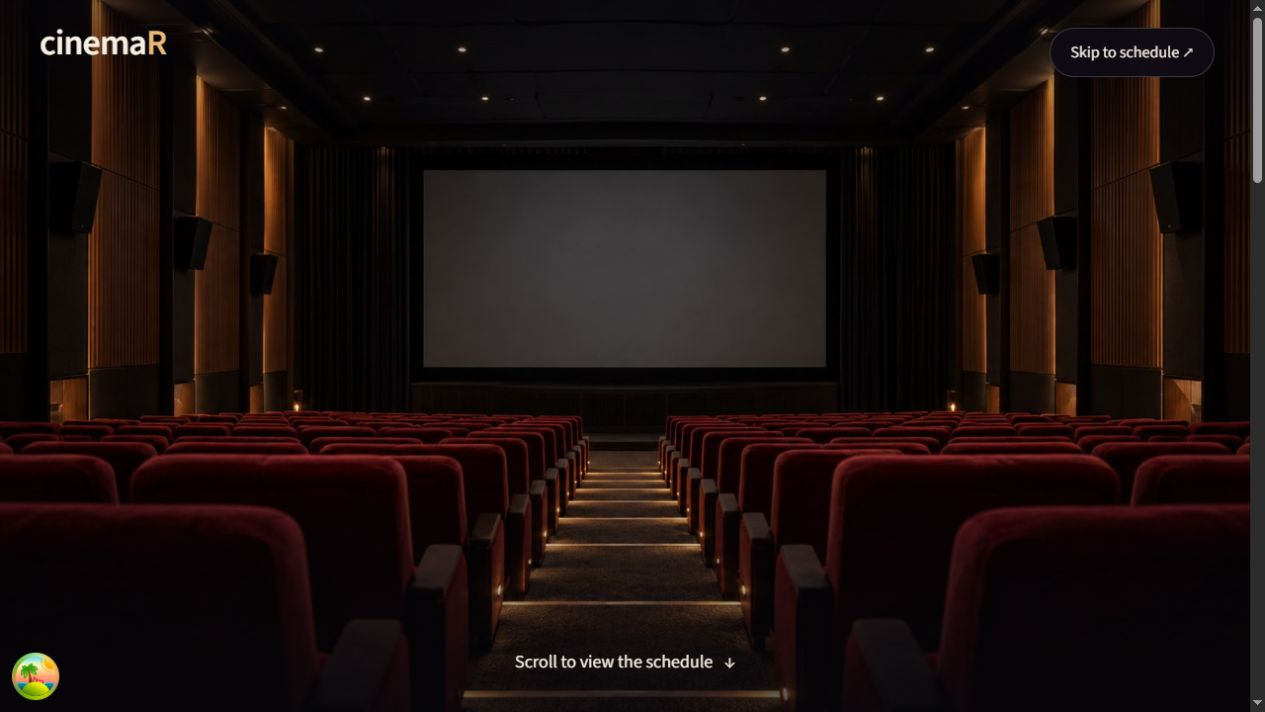
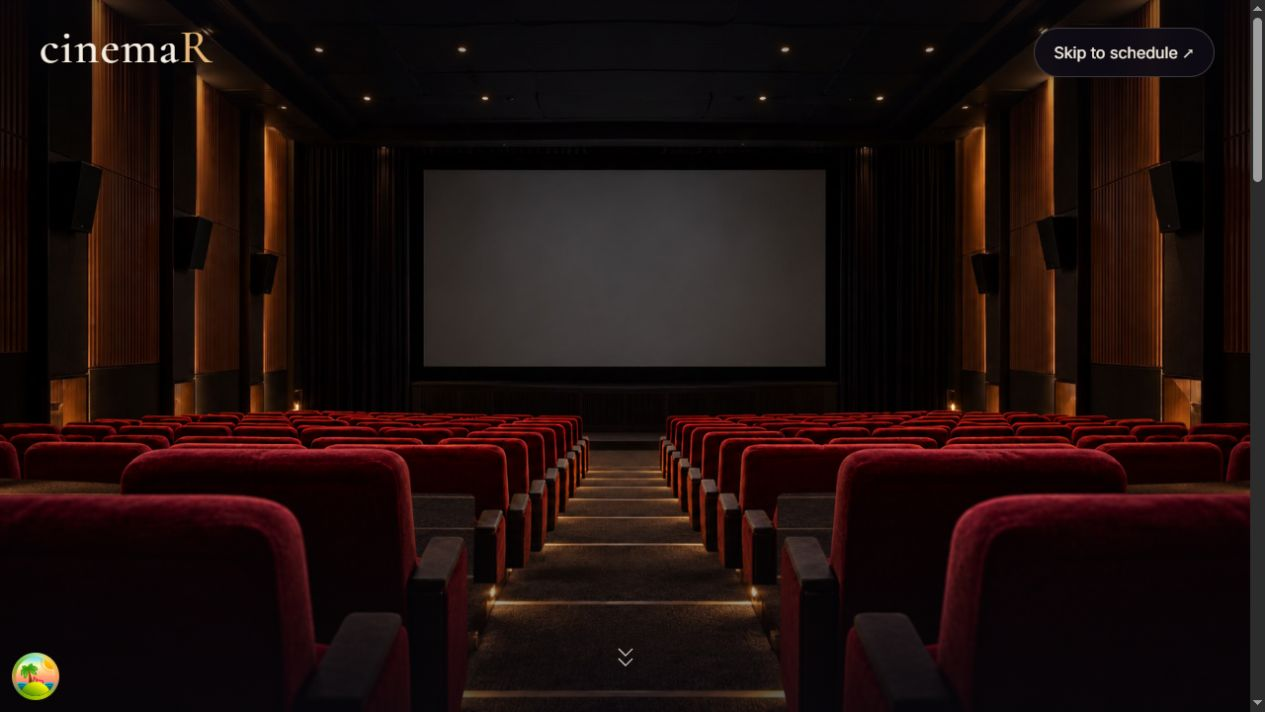
More visual fixes;

diff --git a/src/frontend/src/features/schedule/SchedulePage.tsx b/src/frontend/src/features/schedule/SchedulePage.tsx
@@ -7,36 +7,39 @@ import { Button } from '../../shared/ui/Button';
 import { StatusMessage } from '../../shared/ui/StatusMessage';
 import { DatePicker } from './components/DatePicker';
 import { getDemoShowtimes, getScheduleDates } from './model/demoSchedule';
+import type { ScheduleMotionSession } from './model/scheduleMotion';
+import { useScheduleMotion } from './useScheduleMotion';
 
-export function SchedulePage({ preview = false }: { preview?: boolean }) {
+export function SchedulePage({ preview = false, motion }: { preview?: boolean; motion: ScheduleMotionSession }) {
   const [dates] = useState(() => getScheduleDates());
   const [selectedIndex, setSelectedIndex] = useState(0);
   const moviesQuery = useQuery(movieQueries.list());
   const movies = moviesQuery.data;
   const selectedDate = dates[selectedIndex];
+  const rootRef = useScheduleMotion(motion, preview, selectedDate.key);
 
   return (
-    <div className={theme.page}>
+    <div ref={rootRef} className={theme.page}>
       <div className={theme.container}>
-        <header className={theme.header}>
+        <header className={theme.header} data-schedule-enter="header">
           <Link to="/" className={theme.brand} aria-label="Back to the auditorium">cinema<span className={theme.accent}>R</span></Link>
           <span className={theme.demoBadge}>DEMO SCHEDULE</span>
         </header>
 
         <div className={theme.intro}>
-          <div>
+          <div data-schedule-enter="title">
             <p className={theme.eyebrow}>MOVIES & SHOWTIMES</p>
             {preview ? <h2 className={theme.heading}>Movie schedule</h2> : <h1 className={theme.heading}>Movie schedule</h1>}
             <p className={theme.description}>Choose a date to see the movies and sample showtimes.</p>
           </div>
-          <Button onClick={() => void moviesQuery.refetch()} disabled={moviesQuery.isFetching || moviesQuery.isPaused}>
+          <div data-schedule-enter="action"><Button onClick={() => void moviesQuery.refetch()} disabled={moviesQuery.isFetching || moviesQuery.isPaused}>
             {moviesQuery.isPaused ? 'Offline' : moviesQuery.isFetching ? 'Refreshing…' : 'Refresh movies'} <span aria-hidden="true">↻</span>
-          </Button>
+          </Button></div>
         </div>
 
         <DatePicker dates={dates} selectedIndex={selectedIndex} onSelect={setSelectedIndex} />
-        <p className={theme.dateNote}>Sample showtimes only · All times are local to Kyiv · Booking is coming later.</p>
-        <p className={theme.selectedDate} aria-live="polite">Showing demo times for {selectedDate.fullLabel}</p>
+        <p className={theme.dateNote} data-schedule-enter="note">Sample showtimes only · All times are local to Kyiv · Booking is coming later.</p>
+        <p className={theme.selectedDate} data-schedule-enter="selectedDate" aria-live="polite">Showing demo times for {selectedDate.fullLabel}</p>
 
         <div className={theme.results}>
           {movies === undefined && moviesQuery.isPending && (
@@ -66,17 +69,17 @@ export function SchedulePage({ preview = false }: { preview?: boolean }) {
                     const presentation = getMoviePresentation(movie.title);
                     const showtimes = getDemoShowtimes(index, selectedIndex);
                     return (
-                      <li key={movie.id} className={theme.movieRow}>
-                        <div className={theme.poster}><MovieArtwork title={movie.title} showTitle={false} /></div>
-                        <div>
+                      <li key={movie.id} className={theme.movieRow} data-schedule-enter="row" data-schedule-key={`row:${movie.id}`} data-schedule-order={index}>
+                        <div className={theme.poster} data-schedule-enter="poster" data-schedule-key={`poster:${movie.id}`} data-schedule-order={index}><MovieArtwork title={movie.title} showTitle={false} /></div>
+                        <div data-schedule-enter="details" data-schedule-key={`details:${movie.id}`} data-schedule-order={index}>
                           <p className={theme.category}>{presentation.category}</p>
                           <h3 className={theme.movieTitle}>{movie.title}</h3>
                           <p className={theme.metadata}>{movie.durationMinutes} min <span className={theme.separator}>/</span> {showtimes.auditorium}</p>
                           <p className={theme.synopsis}>{presentation.note}</p>
                         </div>
-                        <div>
+                        <div data-schedule-enter="times" data-schedule-key={`times:${movie.id}`} data-schedule-order={index}>
                           <p className={theme.timesLabel}>SAMPLE SHOWTIMES</p>
-                          <ul className={theme.times} aria-label={`Demo showtimes for ${movie.title}`}>
+                          <ul className={theme.times} data-showtimes aria-label={`Demo showtimes for ${movie.title}`}>
                             {showtimes.times.map((time) => <li key={time}><time className={theme.time} dateTime={`${selectedDate.key}T${time}`}>{time}</time></li>)}
                           </ul>
                         </div>
@@ -91,7 +94,7 @@ export function SchedulePage({ preview = false }: { preview?: boolean }) {
 
       </div>
       <footer className={theme.footer}>
-        <div className={theme.footerDetails}><span className={theme.footerBrand}>cinemaR</span><span className={theme.footerLabel}>MOVIES & SHOWTIMES</span></div>
+        <div className={theme.footerDetails} data-schedule-enter="footer"><span className={theme.footerBrand}>cinemaR</span><span className={theme.footerLabel}>MOVIES & SHOWTIMES</span></div>
       </footer>
     </div>
   );

diff --git a/src/frontend/src/features/schedule/useScheduleMotion.ts b/src/frontend/src/features/schedule/useScheduleMotion.ts
@@ -1,0 +1,92 @@
+import { useLayoutEffect, useRef } from 'react';
+import { scheduleMotionTheme } from './SchedulePage.theme';
+import type { ScheduleMotionSession } from './model/scheduleMotion';
+
+export function useScheduleMotion(session: ScheduleMotionSession, preview: boolean, selectedDate: string) {
+  const rootRef = useRef<HTMLDivElement>(null);
+  const previousDate = useRef(selectedDate);
+
+  useLayoutEffect(() => {
+    const root = rootRef.current;
+    if (!root) return;
+    const reducedMotion = matchMedia('(prefers-reduced-motion: reduce)');
+    const animations = new Map<HTMLElement, { animation: Animation; key: string; delay: number; duration: number }>();
+
+    function sync() {
+      for (const { animation, key, delay, duration } of animations.values()) {
+        const start = session.startFor(key, delay);
+        if (reducedMotion.matches) {
+          animation.cancel();
+        } else if (start === null) {
+          animation.pause();
+          animation.currentTime = 0;
+        } else if (performance.now() - start >= duration) {
+          animation.cancel();
+        } else {
+          // The same scheduled timestamp is used after the route remount.
+          animation.play();
+          animation.startTime = start;
+        }
+      }
+    }
+
+    function register() {
+      for (const [element, record] of animations) {
+        if (!root!.contains(element)) {
+          record.animation.cancel();
+          animations.delete(element);
+        }
+      }
+      root!.querySelectorAll<HTMLElement>('[data-schedule-enter]').forEach((element) => {
+        if (animations.has(element)) return;
+        const kind = element.dataset.scheduleEnter as keyof typeof scheduleMotionTheme;
+        const definition = scheduleMotionTheme[kind];
+        if (!definition) return;
+        const order = Number(element.dataset.scheduleOrder ?? 0);
+        const animation = element.animate(definition.frames, {
+          duration: definition.duration,
+          easing: 'cubic-bezier(0.22, 1, 0.36, 1)',
+          fill: 'backwards',
+        });
+        animation.pause();
+        animation.currentTime = 0;
+        animations.set(element, {
+          animation,
+          key: element.dataset.scheduleKey ?? kind,
+          delay: definition.delay + Math.min(order, 6) * definition.stagger,
+          duration: definition.duration,
+        });
+      });
+      sync();
+    }
+
+    if (!preview) session.start();
+    register();
+    const unsubscribe = session.subscribe(sync);
+    const observer = new MutationObserver(register);
+    observer.observe(root, { childList: true, subtree: true });
+    reducedMotion.addEventListener('change', sync);
+
+    return () => {
+      observer.disconnect();
+      unsubscribe();
+      reducedMotion.removeEventListener('change', sync);
+      animations.forEach(({ animation }) => animation.cancel());
+    };
+  }, [session, preview]);
+
+  useLayoutEffect(() => {
+    if (previousDate.current === selectedDate) return;
+    previousDate.current = selectedDate;
+    if (matchMedia('(prefers-reduced-motion: reduce)').matches) return;
+    const animations = Array.from(rootRef.current?.querySelectorAll('[data-showtimes]') ?? []).map((element) =>
+      element.animate([
+        { opacity: 0.35, transform: 'translateY(4px)' },
+        { opacity: 1, transform: 'translateY(0)' },
+      ], { duration: 220, easing: 'ease-out' }),
+    );
+    return () => animations.forEach((animation) => animation.cancel());
+  }, [selectedDate]);
+
+  return rootRef;
+}

diff --git a/src/frontend/src/app/App.tsx b/src/frontend/src/app/App.tsx
@@ -1,13 +1,14 @@
 import { appTheme as theme } from './App.theme';
-import { useCallback, useLayoutEffect, useRef } from 'react';
+import { useCallback, useLayoutEffect, useRef, useState } from 'react';
 import { Link, Route, Routes, useLocation, useNavigate } from 'react-router-dom';
 import { CinemaEntrance } from '../features/cinema-entrance';
-import { SchedulePage } from '../features/schedule';
+import { SchedulePage, createScheduleMotionSession } from '../features/schedule';
 
 export function App() {
   const location = useLocation();
   const mainRef = useRef<HTMLElement>(null);
   const navigate = useNavigate();
+  const [scheduleMotion] = useState(createScheduleMotionSession);
   const handoffOffset = useRef<number | null>(null);
   const completeEntrance = useCallback((offset: number) => {
     handoffOffset.current = offset;
@@ -21,19 +22,20 @@ export function App() {
   }, []);
 
   useLayoutEffect(() => {
+    if (location.pathname === '/') scheduleMotion.reset();
     // The preview may already have scrolled above the viewport during damping.
     // Consume its offset before paint instead of snapping the schedule to zero.
     window.scrollTo({ top: handoffOffset.current ?? 0, behavior: 'instant' });
     handoffOffset.current = null;
     mainRef.current?.focus({ preventScroll: true });
     document.title = location.pathname === '/schedule' ? 'Movie schedule · cinemaR' : 'cinemaR';
-  }, [location.key, location.pathname]);
+  }, [location.key, location.pathname, scheduleMotion]);
 
   return (
     <main ref={mainRef} tabIndex={-1} className={theme.main}>
       <Routes>
-        <Route path="/" element={<CinemaEntrance onComplete={completeEntrance}><SchedulePage preview /></CinemaEntrance>} />
-        <Route path="/schedule" element={<SchedulePage />} />
+        <Route path="/" element={<CinemaEntrance onComplete={completeEntrance} onScheduleReveal={scheduleMotion.start}><SchedulePage preview motion={scheduleMotion} /></CinemaEntrance>} />
+        <Route path="/schedule" element={<SchedulePage motion={scheduleMotion} />} />
         <Route path="*" element={<div className={theme.notFound}><h1 className={theme.heading}>Page not found</h1><Link className={theme.link} to="/schedule">View schedule</Link></div>} />
       </Routes>
     </main>

diff --git a/src/frontend/src/features/cinema-entrance/useCinemaJourney.ts b/src/frontend/src/features/cinema-entrance/useCinemaJourney.ts
@@ -3,7 +3,7 @@ import { getJourneyGeometry, getScheduleScrollOffset } from './journeyGeometry';
 
 const clamp = (value: number) => Math.min(1, Math.max(0, value));
 
-export function useCinemaJourney(onComplete: (scrollOffset: number) => void) {
+export function useCinemaJourney(onComplete: (scrollOffset: number) => void, onScheduleReveal: () => void) {
   const rootRef = useRef<HTMLDivElement>(null);
   const journeyRef = useRef<HTMLDivElement>(null);
   const stageRef = useRef<HTMLDivElement>(null);
@@ -22,6 +22,7 @@ export function useCinemaJourney(onComplete: (scrollOffset: number) => void) {
     let progress = 0;
     let target = 0;
     let completed = false;
+    let revealed = false;
 
     function update(time: number) {
       frame = 0;
@@ -35,6 +36,10 @@ export function useCinemaJourney(onComplete: (scrollOffset: number) => void) {
       const camera = clamp(progress / 0.84);
       const travel = camera * camera * (3 - 2 * camera);
       const reveal = clamp((progress - 0.88) / 0.12);
+      if (reveal > 0 && !revealed) {
+        revealed = true;
+        onScheduleReveal();
+      }
       root.style.setProperty('--travel', String(travel));
       root.style.setProperty('--schedule-opacity', String(reducedMotion.matches ? 1 : reveal * reveal * (3 - 2 * reveal)));
       root.style.setProperty('--entrance-hint', String(clamp(1 - progress * 5)));
@@ -61,6 +66,10 @@ export function useCinemaJourney(onComplete: (scrollOffset: number) => void) {
         root.style.setProperty('--schedule-opacity', '1');
         schedule.inert = false;
         schedule.removeAttribute('aria-hidden');
+        if (!revealed && schedule.getBoundingClientRect().top < stage.offsetHeight) {
+          revealed = true;
+          onScheduleReveal();
+        }
         if (-top >= journey.offsetHeight - 1) {
           completed = true;
           onComplete(getScheduleScrollOffset(schedule.getBoundingClientRect().top));
@@ -105,7 +114,7 @@ export function useCinemaJourney(onComplete: (scrollOffset: number) => void) {
       removeEventListener('pageshow', resize);
       reducedMotion.removeEventListener('change', measure);
     };
-  }, [onComplete]);
+  }, [onComplete, onScheduleReveal]);
 
   return { rootRef, journeyRef, stageRef, scheduleRef };
 }

diff --git a/src/frontend/src/features/schedule/SchedulePage.theme.ts b/src/frontend/src/features/schedule/SchedulePage.theme.ts
@@ -29,3 +29,20 @@ export const schedulePageTheme = {
   footerBrand: "rounded-md bg-lobby/90 px-3 py-2 font-display text-3xl font-medium",
   footerLabel: "rounded-md bg-lobby/90 px-3 py-2 text-sm font-medium tracking-wider text-amber-light",
 };
+
+// Keep motion with component presentation. Only opacity and transforms animate.
+const fade: Keyframe[] = [{ opacity: 0 }, { opacity: 1 }];
+const rise: Keyframe[] = [{ opacity: 0, transform: 'translateY(12px)' }, { opacity: 1, transform: 'translateY(0)' }];
+export const scheduleMotionTheme = {
+  header: { frames: fade, duration: 340, delay: 0, stagger: 0 },
+  title: { frames: rise, duration: 460, delay: 60, stagger: 0 },
+  action: { frames: fade, duration: 360, delay: 120, stagger: 0 },
+  date: { frames: rise, duration: 350, delay: 140, stagger: 35 },
+  note: { frames: fade, duration: 300, delay: 250, stagger: 0 },
+  selectedDate: { frames: fade, duration: 300, delay: 280, stagger: 0 },
+  row: { frames: rise, duration: 420, delay: 320, stagger: 65 },
+  poster: { frames: [{ opacity: 0, transform: 'scale(0.96)' }, { opacity: 1, transform: 'scale(1)' }], duration: 520, delay: 350, stagger: 65 },
+  details: { frames: [{ opacity: 0, transform: 'translateX(6px)' }, { opacity: 1, transform: 'translateX(0)' }], duration: 400, delay: 370, stagger: 65 },
+  times: { frames: fade, duration: 360, delay: 400, stagger: 65 },
+  footer: { frames: fade, duration: 450, delay: 560, stagger: 0 },
+};

diff --git a/src/frontend/src/features/schedule/components/DatePicker.tsx b/src/frontend/src/features/schedule/components/DatePicker.tsx
@@ -11,7 +11,7 @@ export function DatePicker({ dates, selectedIndex, onSelect }: DatePickerProps) 
   return (
     <div className={theme.group} role="group" aria-label="Choose schedule date">
       {dates.map((date, index) => (
-        <button key={date.key} type="button" aria-label={date.fullLabel} aria-pressed={selectedIndex === index} onClick={() => onSelect(index)} className={`${theme.day} ${selectedIndex === index ? theme.selected : theme.idle}`}>
+        <button key={date.key} type="button" aria-label={date.fullLabel} aria-pressed={selectedIndex === index} onClick={() => onSelect(index)} data-schedule-enter="date" data-schedule-key={`date:${date.key}`} data-schedule-order={index} className={`${theme.day} ${selectedIndex === index ? theme.selected : theme.idle}`}>
           <span className={theme.weekday}>{date.weekday}</span>
           <span className={theme.dayNumber}>{date.day}</span>
           <span className={theme.month}>{date.month}</span>

diff --git a/src/frontend/src/features/schedule/model/scheduleMotion.ts b/src/frontend/src/features/schedule/model/scheduleMotion.ts
@@ -1,0 +1,29 @@
+export function createScheduleMotionSession(now = () => performance.now()) {
+  let openedAt: number | null = null;
+  const starts = new Map<string, number>();
+  const listeners = new Set<() => void>();
+
+  return {
+    start() {
+      if (openedAt !== null) return;
+      openedAt = now();
+      listeners.forEach((listener) => listener());
+    },
+    reset() {
+      openedAt = null;
+      starts.clear();
+      listeners.forEach((listener) => listener());
+    },
+    startFor(key: string, delay: number) {
+      if (openedAt === null) return null;
+      if (!starts.has(key)) starts.set(key, Math.max(openedAt + delay, now()));
+      return starts.get(key)!;
+    },
+    subscribe(listener: () => void) {
+      listeners.add(listener);
+      return () => { listeners.delete(listener); };
+    },
+  };
+}
+
+export type ScheduleMotionSession = ReturnType<typeof createScheduleMotionSession>;

diff --git a/src/frontend/src/features/cinema-entrance/CinemaEntrance.tsx b/src/frontend/src/features/cinema-entrance/CinemaEntrance.tsx
@@ -4,8 +4,8 @@ import { Auditorium } from './components/Auditorium';
 import { useCinemaJourney } from './useCinemaJourney';
 import { cinemaEntranceTheme as theme } from './CinemaEntrance.theme';
 
-export function CinemaEntrance({ children, onComplete }: { children: ReactNode; onComplete: (scrollOffset: number) => void }) {
-  const { rootRef, journeyRef, stageRef, scheduleRef } = useCinemaJourney(onComplete);
+export function CinemaEntrance({ children, onComplete, onScheduleReveal }: { children: ReactNode; onComplete: (scrollOffset: number) => void; onScheduleReveal: () => void }) {
+  const { rootRef, journeyRef, stageRef, scheduleRef } = useCinemaJourney(onComplete, onScheduleReveal);
 
   return (
     <div ref={rootRef} id="entrance" style={{ '--travel': 0, '--schedule-opacity': 0, '--entrance-hint': 1 } as CSSProperties}>

diff --git a/src/frontend/src/features/schedule/components/DatePicker.theme.ts b/src/frontend/src/features/schedule/components/DatePicker.theme.ts
@@ -3,7 +3,7 @@ export const datePickerTheme = {
   weekday: "block font-label text-sm",
   dayNumber: "my-1 block font-display text-2xl sm:text-3xl",
   month: "block font-label text-sm uppercase tracking-wider",
-  day: "min-h-23 rounded-xl border px-3 py-3 text-center transition-colors sm:min-h-26",
-  selected: "border-amber/70 bg-amber/10 text-amber-light",
+  day: "min-h-23 rounded-xl border px-3 py-3 text-center transition-[background-color,border-color,color,box-shadow,scale] duration-200 sm:min-h-26",
+  selected: "scale-[1.015] border-amber/70 bg-amber/10 text-amber-light shadow-[0_4px_16px_#e9b6750d]",
   idle: "border-edge bg-surface text-muted hover:border-amber/40 hover:text-ivory",
 };

diff --git a/src/frontend/src/features/cinema-entrance/components/Auditorium.tsx b/src/frontend/src/features/cinema-entrance/components/Auditorium.tsx
@@ -8,6 +8,9 @@ export function Auditorium() {
       }}>
         <div className={theme.canvas}>
           <img className={theme.layer} src="/auditorium-room.jpg" alt="" fetchPriority="high" decoding="async" width={1672} height={941} />
+          <div className={theme.screen} data-cinema-screen style={{
+            opacity: 'min(1, max(0, calc(var(--travel) * 2.5 - 0.5)))',
+          }} />
           <img className={theme.layer} data-parallax-layer="middle" src="/auditorium-middle.png" alt="" fetchPriority="high" decoding="async" width={1672} height={941} style={{
             transform: 'translate3d(0, calc(var(--travel) * 10%), 0) scale(calc(1 + var(--travel) * 0.04))',
           }} />

diff --git a/src/frontend/src/features/cinema-entrance/components/Auditorium.theme.ts b/src/frontend/src/features/cinema-entrance/components/Auditorium.theme.ts
@@ -3,5 +3,6 @@ export const auditoriumTheme = {
   camera: 'absolute inset-0 origin-[var(--camera-origin-x,50%)_var(--camera-origin-y,40%)] will-change-transform',
   canvas: 'absolute top-[var(--image-top,0px)] left-[var(--image-left,0px)] h-[var(--image-height,100%)] w-[var(--image-width,100%)]',
   layer: 'absolute inset-0 size-full origin-[50%_40%] will-change-transform',
+  screen: 'absolute top-[23.9107%] left-[34.0909%] h-[27.6302%] w-[31.8182%] bg-[radial-gradient(ellipse_at_50%_45%,#19171f_0%,#0e0c13_85%)]',
   shade: 'absolute inset-0 bg-[linear-gradient(180deg,#08070c80_0%,transparent_25%,transparent_65%,#08070cb3_100%)]',
 };

diff --git a/src/frontend/src/features/schedule/index.ts b/src/frontend/src/features/schedule/index.ts
@@ -1,1 +1,2 @@
 export { SchedulePage } from './SchedulePage';
+export { createScheduleMotionSession } from './model/scheduleMotion';
